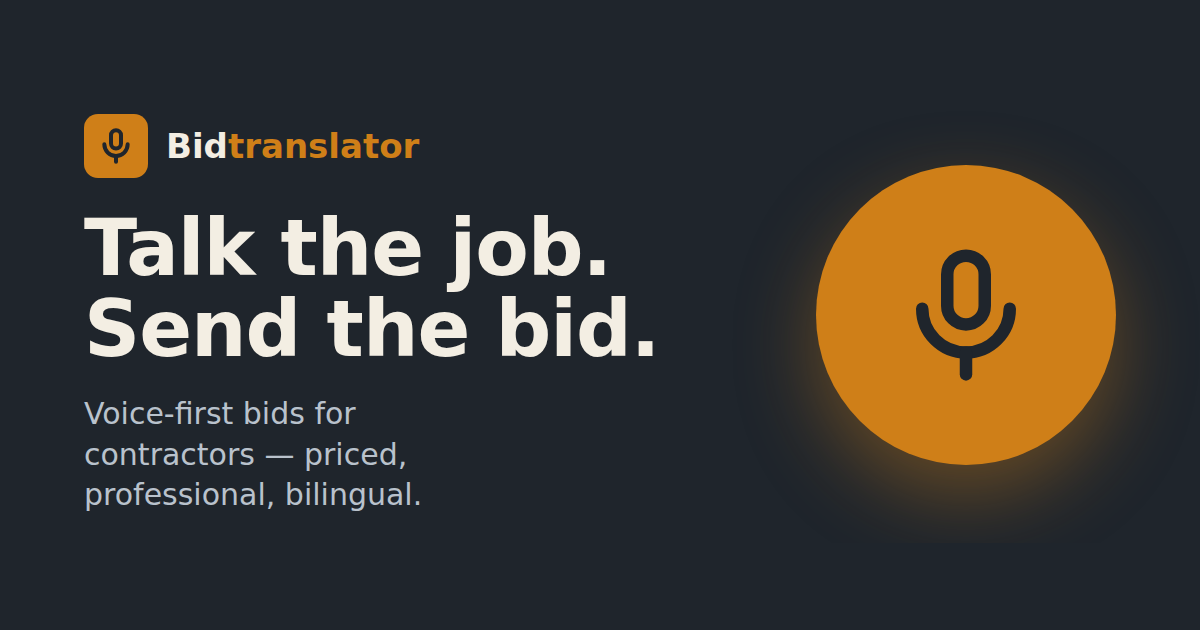
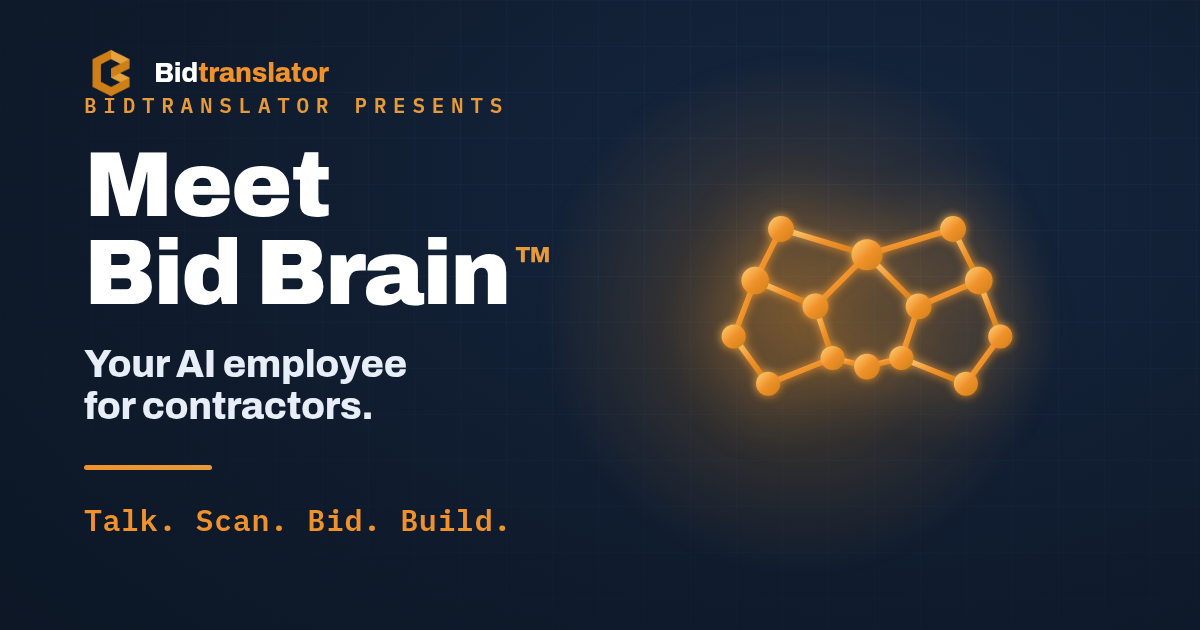
Redesign social share image: "Meet Bid Brain™" OG card + full meta
- New 1200×630 OG image (public/og.png, + @user retina): glowing Bid Brain
  neural hero, dark blueprint-grid background, "Meet Bid Brain™ /
  Your AI employee for contractors. / Talk. Scan. Bid. Build.", brand
  logo + wordmark in the corner. Orange + white, premium dark aesthetic.
- OG + Twitter Card meta upgraded to match: title/description now lead
  with Bid Brain; added og:image:width/height/type/alt + secure_url +
  twitter:image:alt so every platform (FB, Messenger, LinkedIn, X,
  iMessage, WhatsApp, Discord, Slack) renders the large card reliably.
- Cache-busting ?v=2 on the image URL to force social re-scrape.
- docs/release-testing-checklist.md: test every feature across app
  surfaces (web/iPhone/Android/voice/offline) AND share surfaces
  (FB/IG/LinkedIn/X/Messenger/WhatsApp/Email/SMS) before each release.

Claude-Session: https://claude.ai/code/session_013BqLucgDpA8qPKGq5q1jpm

Changed region(s): [[0.0617, 0.0905, 0.9558, 0.8444]]

diff --git a/public/index.html b/public/index.html
@@ -25,14 +25,22 @@
 <meta name="description" content="Run your entire contracting business by voice: create estimates, schedule jobs, collect payments, manage customers, and grow — all from one app. A professional estimate in under 60 seconds, in your language. Free to start." />
 <meta property="og:type" content="website" />
 <meta property="og:site_name" content="Bidtranslator" />
-<meta property="og:title" content="Bidtranslator — Run your entire contracting business by voice." />
-<meta property="og:description" content="Create estimates, schedule jobs, collect payments, manage customers, and grow — all from one app. A professional estimate in under 60 seconds, in your language." />
-<meta property="og:image" content="https://bidtranslator.com/og.png" />
+<meta property="og:title" content="Meet Bid Brain™ — your AI employee for contractors." />
+<meta property="og:description" content="Talk. Scan. Bid. Build. Bid Brain runs your contracting business by voice — estimates, scheduling, payments, customers, and growth, all from one app. A professional estimate in under 60 seconds, in your language." />
+<meta property="og:image" content="https://bidtranslator.com/og.png?v=2" />
+<meta property="og:image:secure_url" content="https://bidtranslator.com/og.png?v=2" />
+<meta property="og:image:type" content="image/png" />
+<meta property="og:image:width" content="1200" />
+<meta property="og:image:height" content="630" />
+<meta property="og:image:alt" content="Meet Bid Brain — your AI employee for contractors. Talk. Scan. Bid. Build." />
 <meta property="og:url" content="https://bidtranslator.com/" />
+<meta property="og:locale" content="en_US" />
 <meta name="twitter:card" content="summary_large_image" />
-<meta name="twitter:title" content="Bidtranslator — Run your entire contracting business by voice." />
-<meta name="twitter:description" content="Create estimates, schedule jobs, collect payments, manage customers, and grow — all from one app. A professional estimate in under 60 seconds." />
-<meta name="twitter:image" content="https://bidtranslator.com/og.png" />
+<meta name="twitter:site" content="@bidtranslator" />
+<meta name="twitter:title" content="Meet Bid Brain™ — your AI employee for contractors." />
+<meta name="twitter:description" content="Talk. Scan. Bid. Build. Bid Brain runs your contracting business by voice — a professional estimate in under 60 seconds, in your language." />
+<meta name="twitter:image" content="https://bidtranslator.com/og.png?v=2" />
+<meta name="twitter:image:alt" content="Meet Bid Brain — your AI employee for contractors. Talk. Scan. Bid. Build." />
 <link rel="preconnect" href="https://fonts.googleapis.com" />
 <link rel="preconnect" href="https://fonts.gstatic.com" crossorigin />
 <link href="https://fonts.googleapis.com/css2?family=Archivo:wght@600;700;800;900&family=IBM+Plex+Mono:wght@400;500;600&family=IBM+Plex+Sans:wght@400;500;600&display=swap" rel="stylesheet" />

diff --git a/docs/release-testing-checklist.md b/docs/release-testing-checklist.md
@@ -1,0 +1,43 @@
+# Release Testing Checklist — every surface, every release
+
+> Bid Brain / Bidtranslator is used and *shared* across many surfaces. A feature
+> isn't "shipped" until it works **and unfurls** everywhere a contractor or a
+> homeowner will encounter it. Run this list before each release.
+
+## 1. App surfaces (does the feature work?)
+- [ ] **Website** (desktop Chrome, Safari, Firefox)
+- [ ] **iPhone** — Safari + installed PWA (home-screen)
+- [ ] **Android** — Chrome + installed PWA
+- [ ] **Voice path** — record → transcribe → AI build (real mic, both EN + ES)
+- [ ] **Offline** — capture works with no network, syncs on reconnect
+- [ ] **Hand-built path** — the same job can be built without the AI step
+
+## 2. Share / unfurl surfaces (does the link look right?)
+Paste `https://bidtranslator.com/` (and a contractor site link) into each and
+confirm the OG card renders: image, title, description.
+- [ ] **Facebook** (feed + Messenger)
+- [ ] **Instagram** (bio/DM link preview)
+- [ ] **LinkedIn**
+- [ ] **X / Twitter** (summary_large_image)
+- [ ] **iMessage** (rich link)
+- [ ] **WhatsApp**
+- [ ] **Discord / Slack**
+- [ ] **Email** (Gmail, Apple Mail — image loads, not blocked)
+- [ ] **SMS** (link is clean, no broken preview)
+
+## 3. Refreshing cached previews
+Social platforms cache OG data by URL. After changing the share image/copy,
+bump the asset query (`og.png?v=N`) **and** re-scrape:
+- [ ] Facebook/Messenger — [Sharing Debugger](https://developers.facebook.com/tools/debug/) → "Scrape Again"
+- [ ] LinkedIn — [Post Inspector](https://www.linkedin.com/post-inspector/)
+- [ ] X/Twitter — post a fresh link (Card Validator is retired; cache ~7 days)
+- [ ] iMessage — caches aggressively; test from a device that hasn't seen the link
+
+## 4. Money + privacy gates (never regress these)
+- [ ] `margin` and `notes` never appear in the client view or the PDF
+- [ ] Photos/PDFs only reachable via signed, expiring URLs
+- [ ] Each account sees only its own data (ownership enforced server-side)
+- [ ] AI provider key never reaches the browser (all AI via `/api/assist/*`)
+
+---
+_Owner: founder + Claude. Keep this list short enough that it actually gets run._